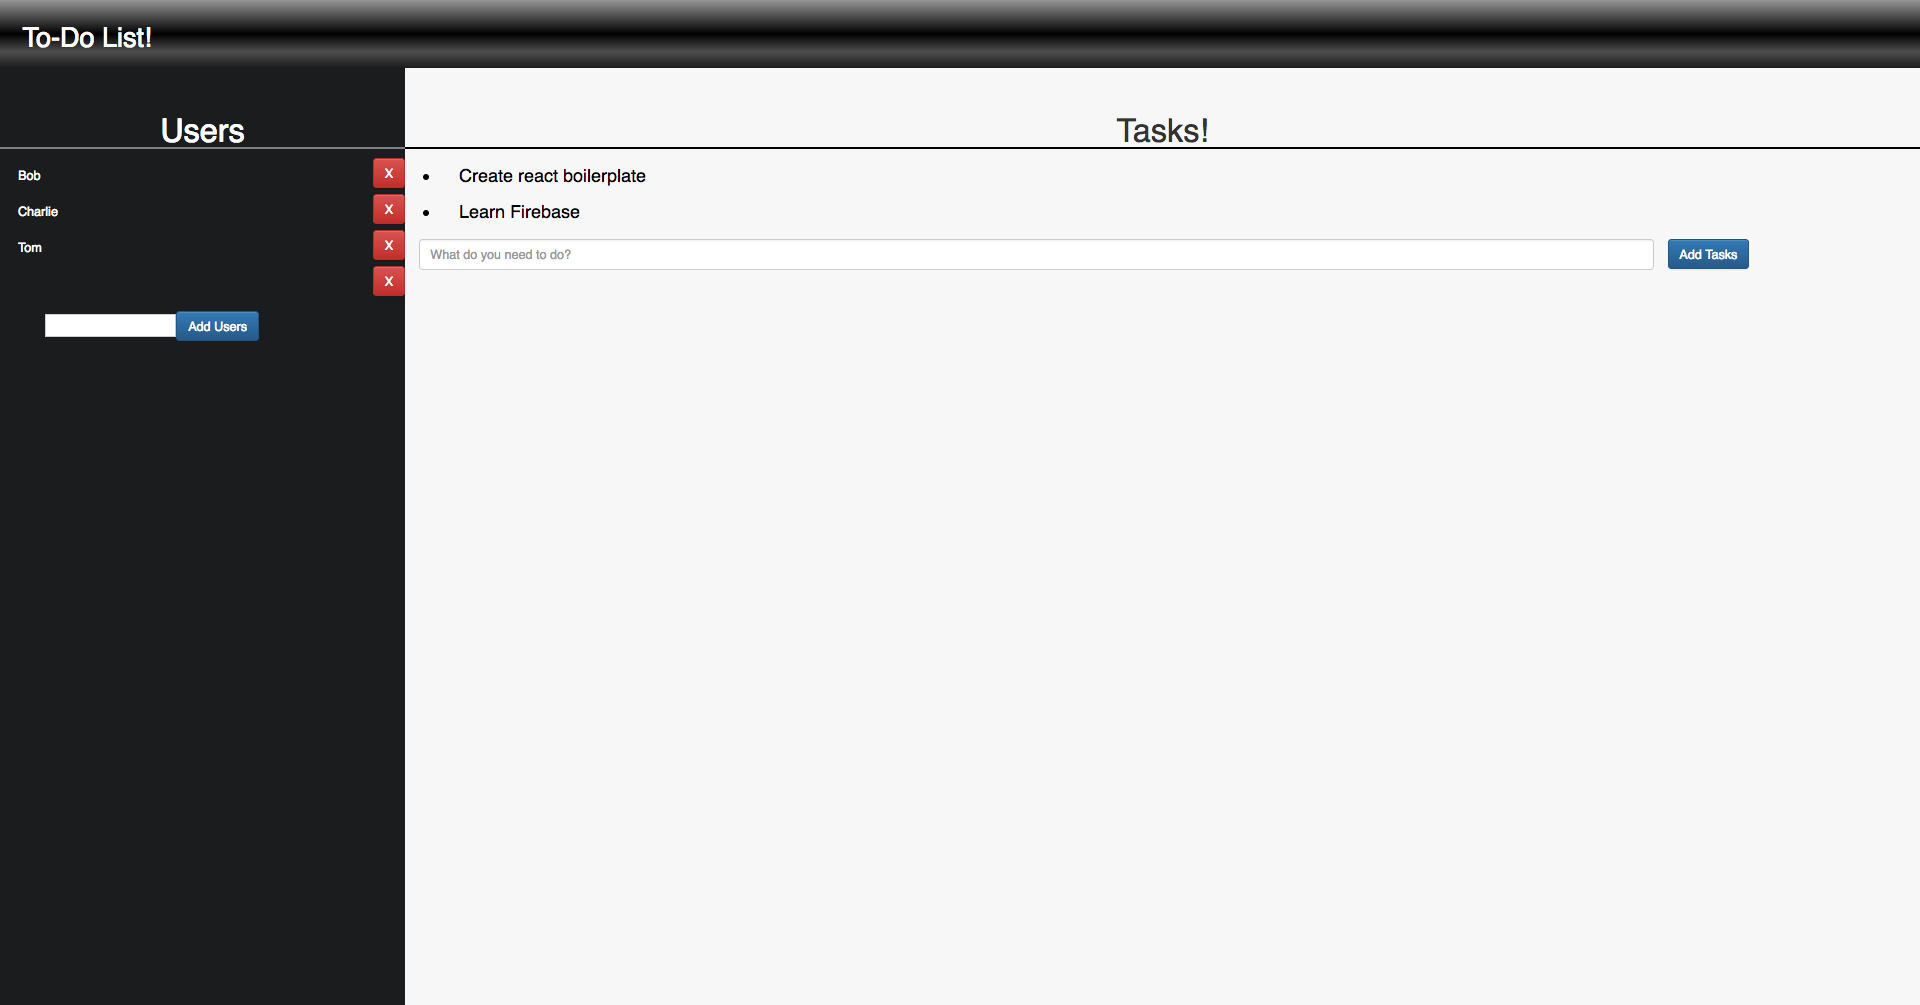
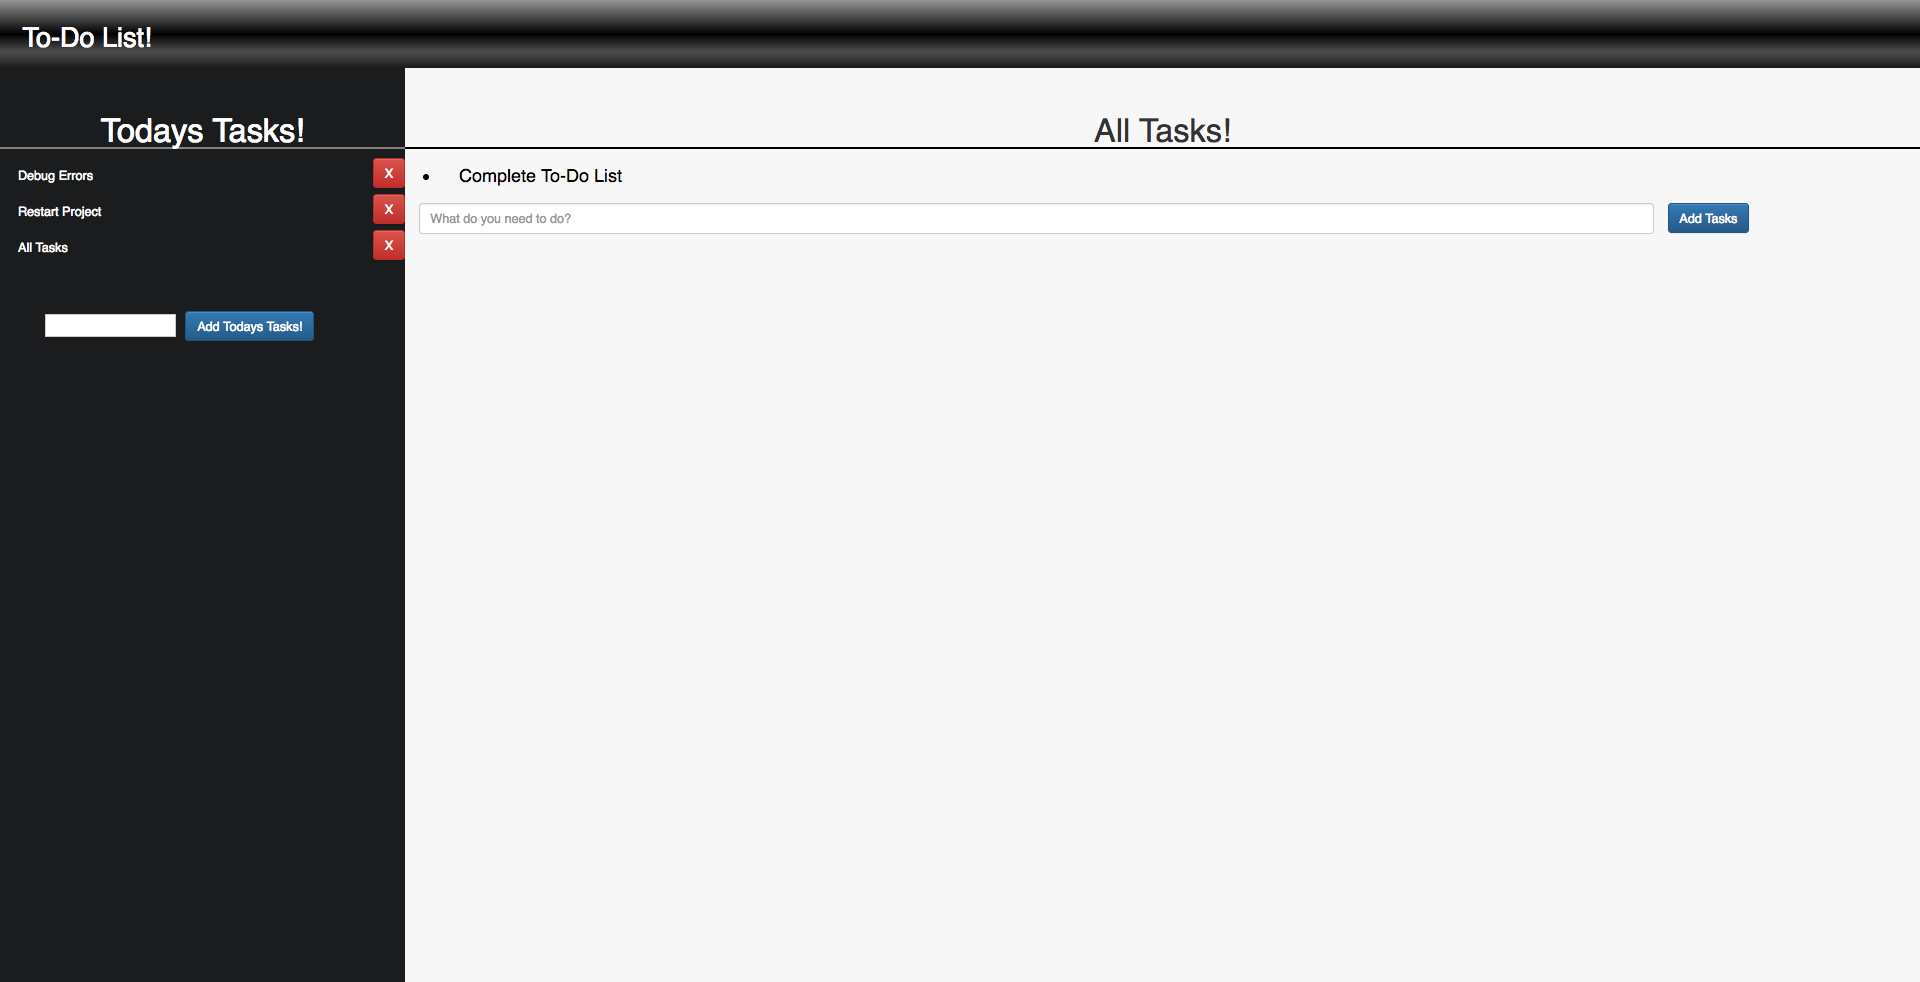
Fixed no content

diff --git a/src/components/Users.jsx b/src/components/Users.jsx
@@ -58,14 +58,14 @@ class Users extends React.Component{
       <div id="sidebar-wrapper">
 
       <div id="users">
-        <h1> Users </h1>
+        <h1> Todays Tasks! </h1>
       <ViewUsers className="todoForm form-horizontal" users={ this.state.users } removeUser={ this.removeUser }/>
       </div>
       <div id="user-wrapper">
         <form onSubmit={ this.handleSubmit.bind(this) }>
         <div className="user-input">
         <input onChange={ this.onContent.bind(this) } value={ this.state.content } />
-        <button className="btn btn-primary">Add Users</button>
+        <button className="btn btn-primary currentbutton">Add Todays Tasks!</button>
         </div>
         </form>
       </div>

diff --git a/src/components/Tasks.jsx b/src/components/Tasks.jsx
@@ -60,7 +60,7 @@ class Tasks extends React.Component{
   render() {
     return (
       <div className="commentForm vert-offset-top-2">
-      <h1 className="task-header"> Tasks! </h1>
+      <h1 className="task-header"> All Tasks! </h1>
       <ViewTasks items={ this.state.items }  />
         <form className="todoForm form-horizontal" onSubmit={ this.handleSubmit.bind(this) }>
           <div className="col-md-10">

diff --git a/src/components/ViewUsers.jsx b/src/components/ViewUsers.jsx
@@ -5,6 +5,11 @@ class viewUsers extends React.Component {
   render() {
     var _this = this;
     var createUser = function(user, index) {
+      if (user.content === undefined ){
+        user.content = "All Tasks";
+      } else {
+        user.content;
+      }
       return (
         <li key={ index }>
           { user.content }

diff --git a/src/assets/styles/App.scss b/src/assets/styles/App.scss
@@ -77,7 +77,9 @@ div.Tasks li {
 
 
 /* Sidebar Styles */
-
+.currentbutton {
+  margin-left: 10px;
+}
 .sidebar-nav {
   width: 450px;
   margin: 0;
